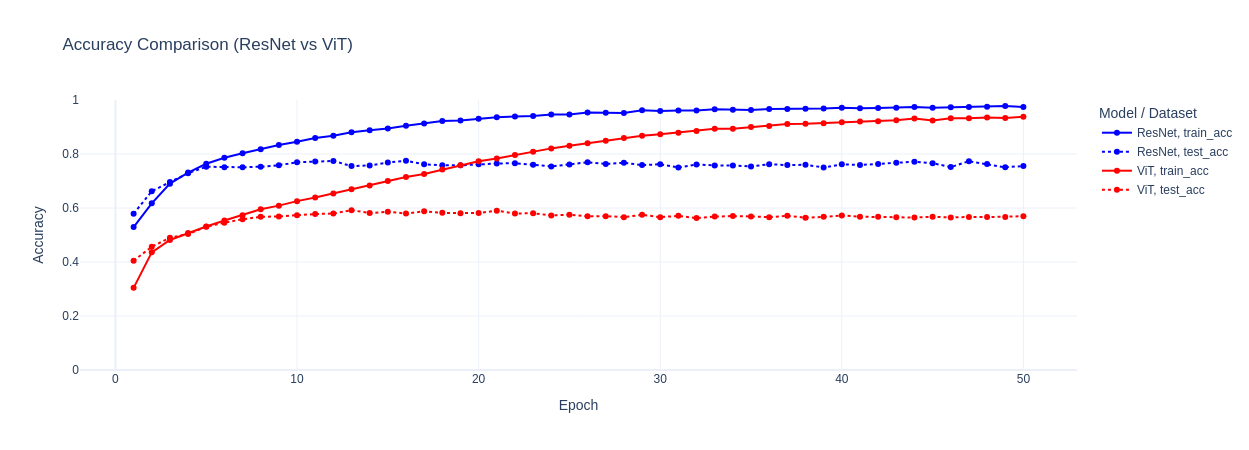
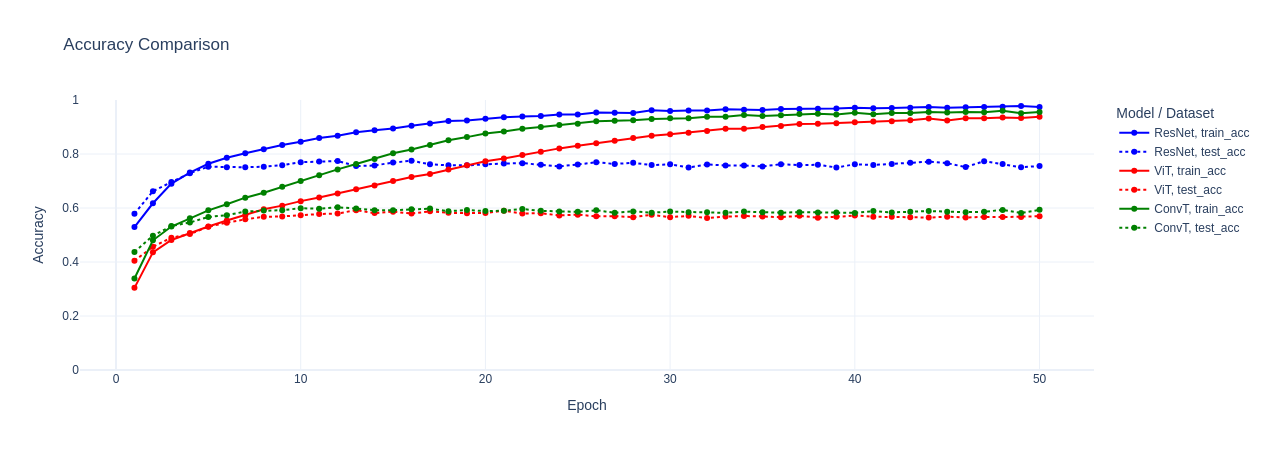
complete

diff --git a/README.md b/README.md
@@ -14,8 +14,12 @@
     - Self Attention Heads : 4
     - Transformer Blocks : 4
     - Embedding Dimension : 64
-    - Parameters : 210K
+    - Parameters : 208K
     - Avg Time per epoch : 26 sec
+
+#### WITH Convolution Enriched Encodings
+    - Parameters : 245K
+    - Avg Time per epoch : 27
 
 ![Accuracy Comparison](accuracy_comparison.png)
 
